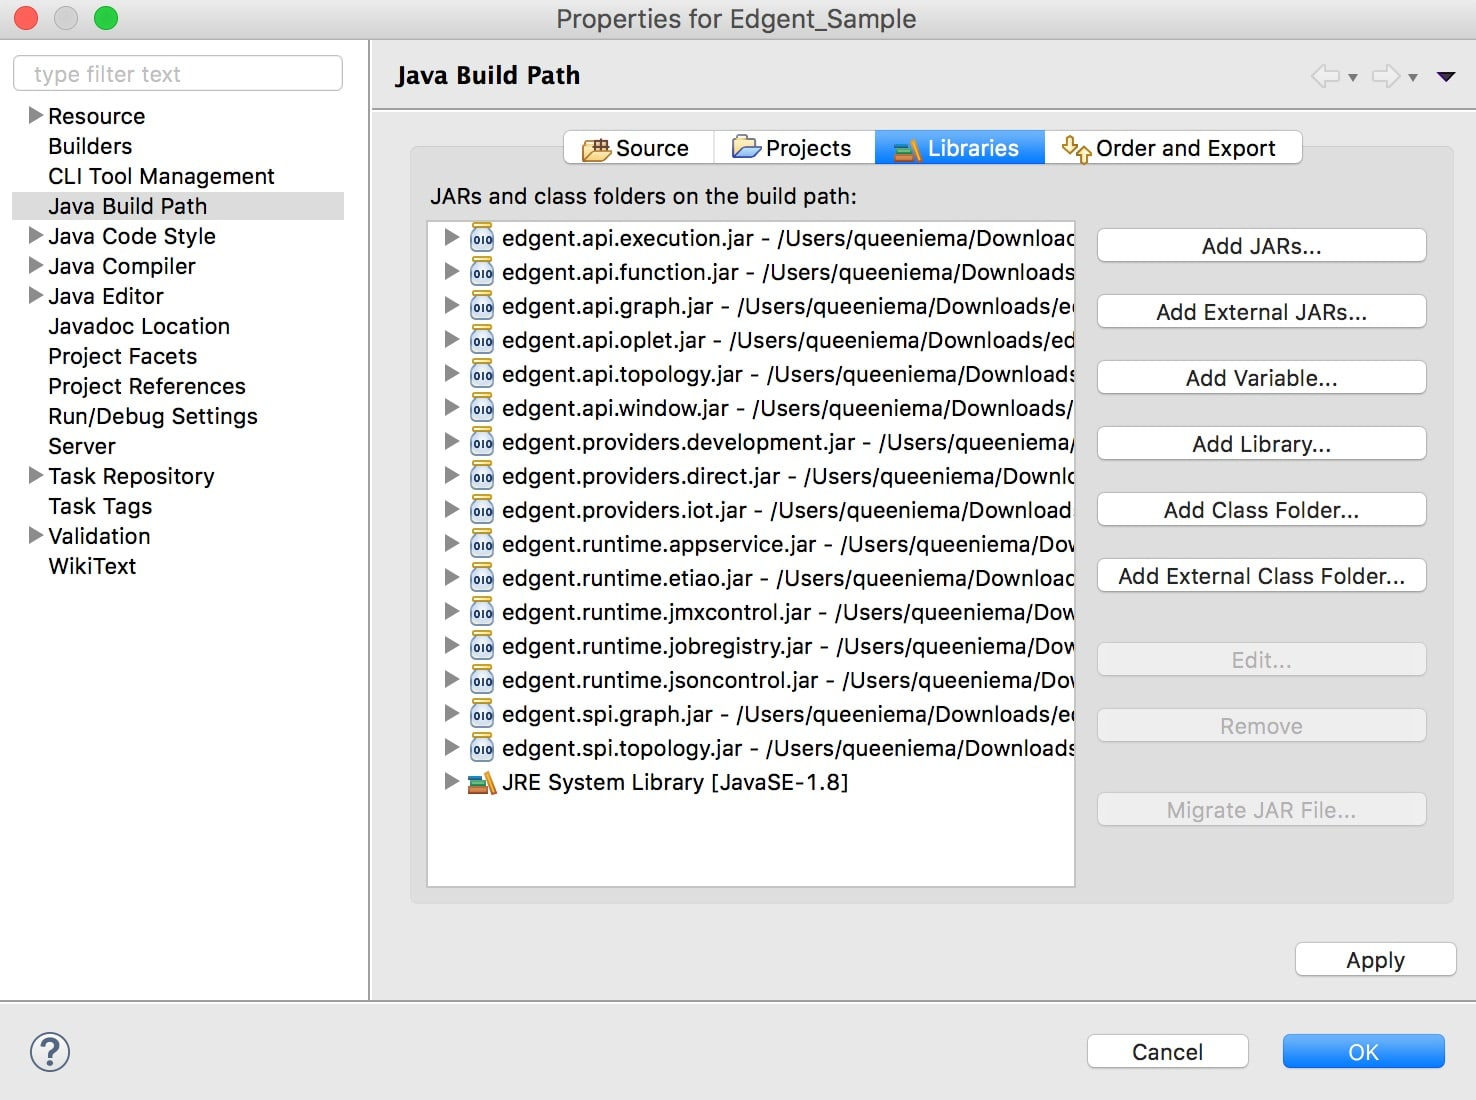
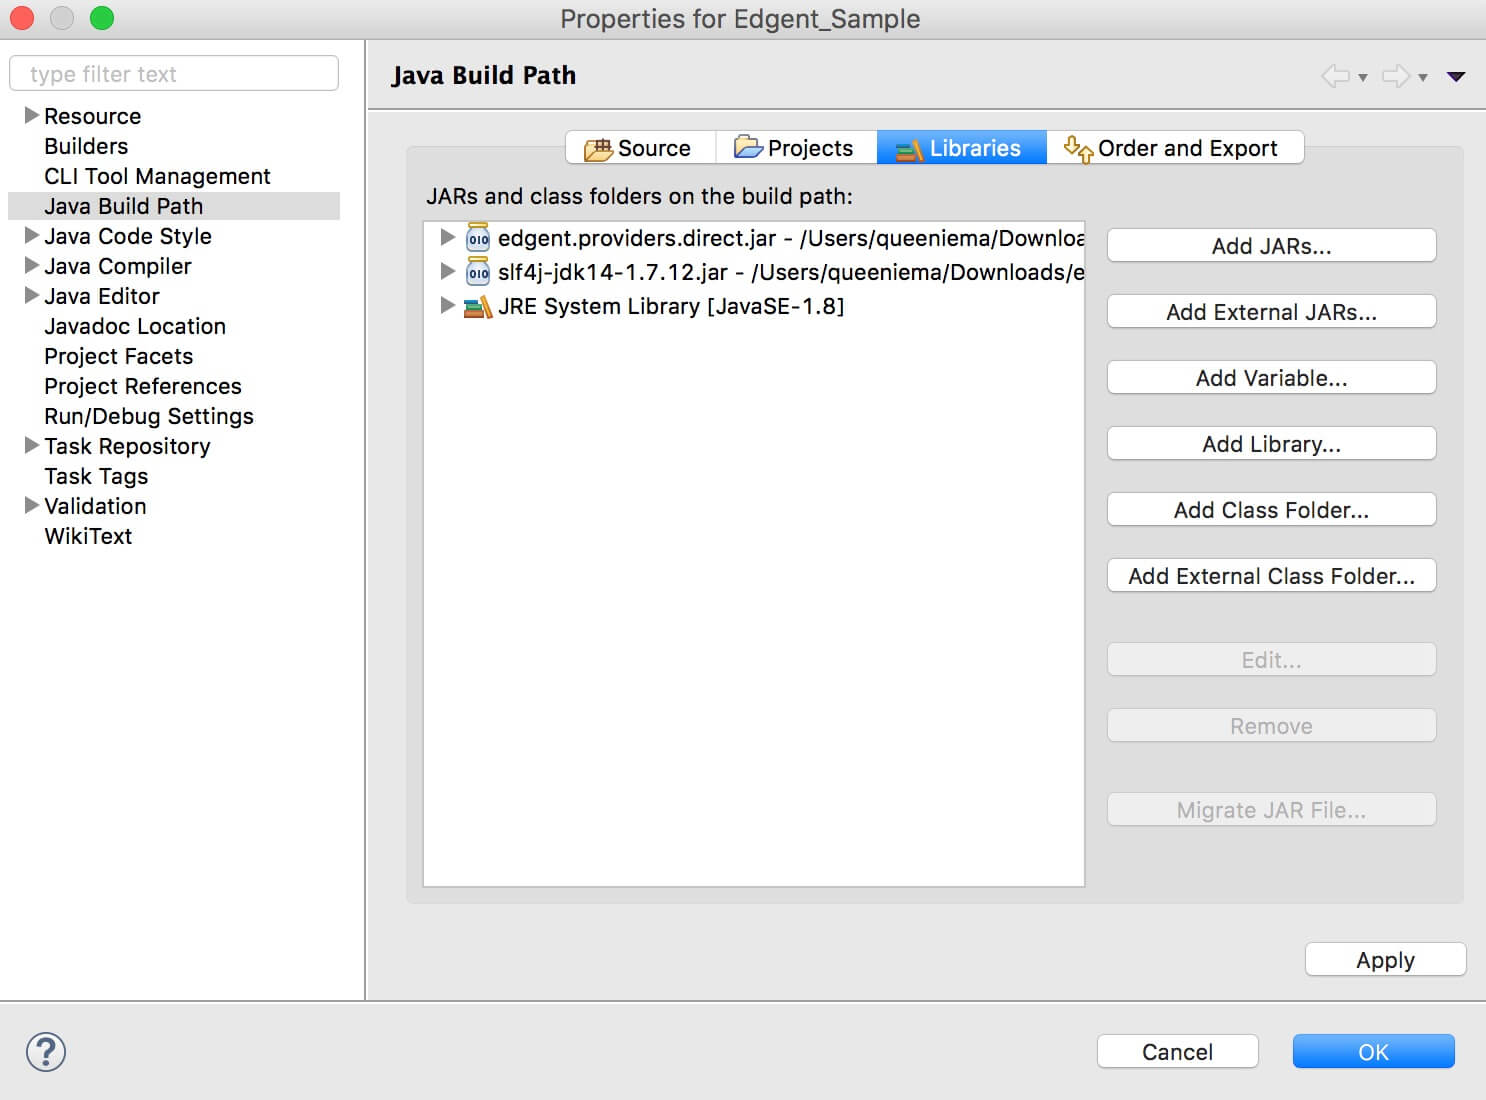
[EDGENT-364] Update Eclipse build path instructions

diff --git a/site/docs/edgent-getting-started.md b/site/docs/edgent-getting-started.md
@@ -51,7 +51,16 @@ Ensure that you are running a supported environment. For more information, see t
     <img src="images/New_Java_Project.jpg">
 
 
-2. Add all of the JAR files in the `java8\lib` directory to the project's build path:
+2. Include one or more Edgent JARs in your project's build path depending on what features your application uses:
+    1. Include one or more of the topology providers:
+        * `java8/lib/edgent.providers.development.jar` (if using the [DevelopmentProvider]({{ site.docsurl }}/org/apache/{{ site.data.project.unix_name }}/providers/development/DevelopmentProvider.html))
+        * `java8/lib/edgent.providers.direct.jar`(if using the [DirectProvider]({{ site.docsurl }}/org/apache/{{ site.data.project.unix_name }}/providers/direct/DirectProvider.html))
+        * `java8/lib/edgent.providers.iot.jar` (if using the [IotProvider]({{ site.docsurl }}/org/apache/{{ site.data.project.unix_name }}/providers/iot/IotProvider.html))
+    2. Include the JARs for any Edgent connectors or analytic features you use in `java8/connectors` and `java8/analytics`, respectively
+    3. Include the JARs for any Edgent utility features you use:
+        * `java8/utils/metrics/lib/edgent.utils.metrics.jar` (for the [org.apache.edgent.metrics]({{ site.docsurl }}/org/apache/{{ site.data.project.unix_name }}/metrics/package-summary.html) package)
+        * `java8/utils/streamscope/lib/edgent.utils.streamscope.jar` (for the [org.apache.edgent.streamscope]({{ site.docsurl }}/org/apache/{{ site.data.project.unix_name }}/streamscope/package-summary.html) package)
+    4. Include the JAR for the [java.util.logging](https://docs.oracle.com/javase/8/docs/api/java/util/logging/package-summary.html) framework for [SLF4J](https://www.slf4j.org/): `java8/ext/slf4j-jdk14-X.X.X.jar`
 
     <img src="images/Build_Path_JARs.jpg">
 
